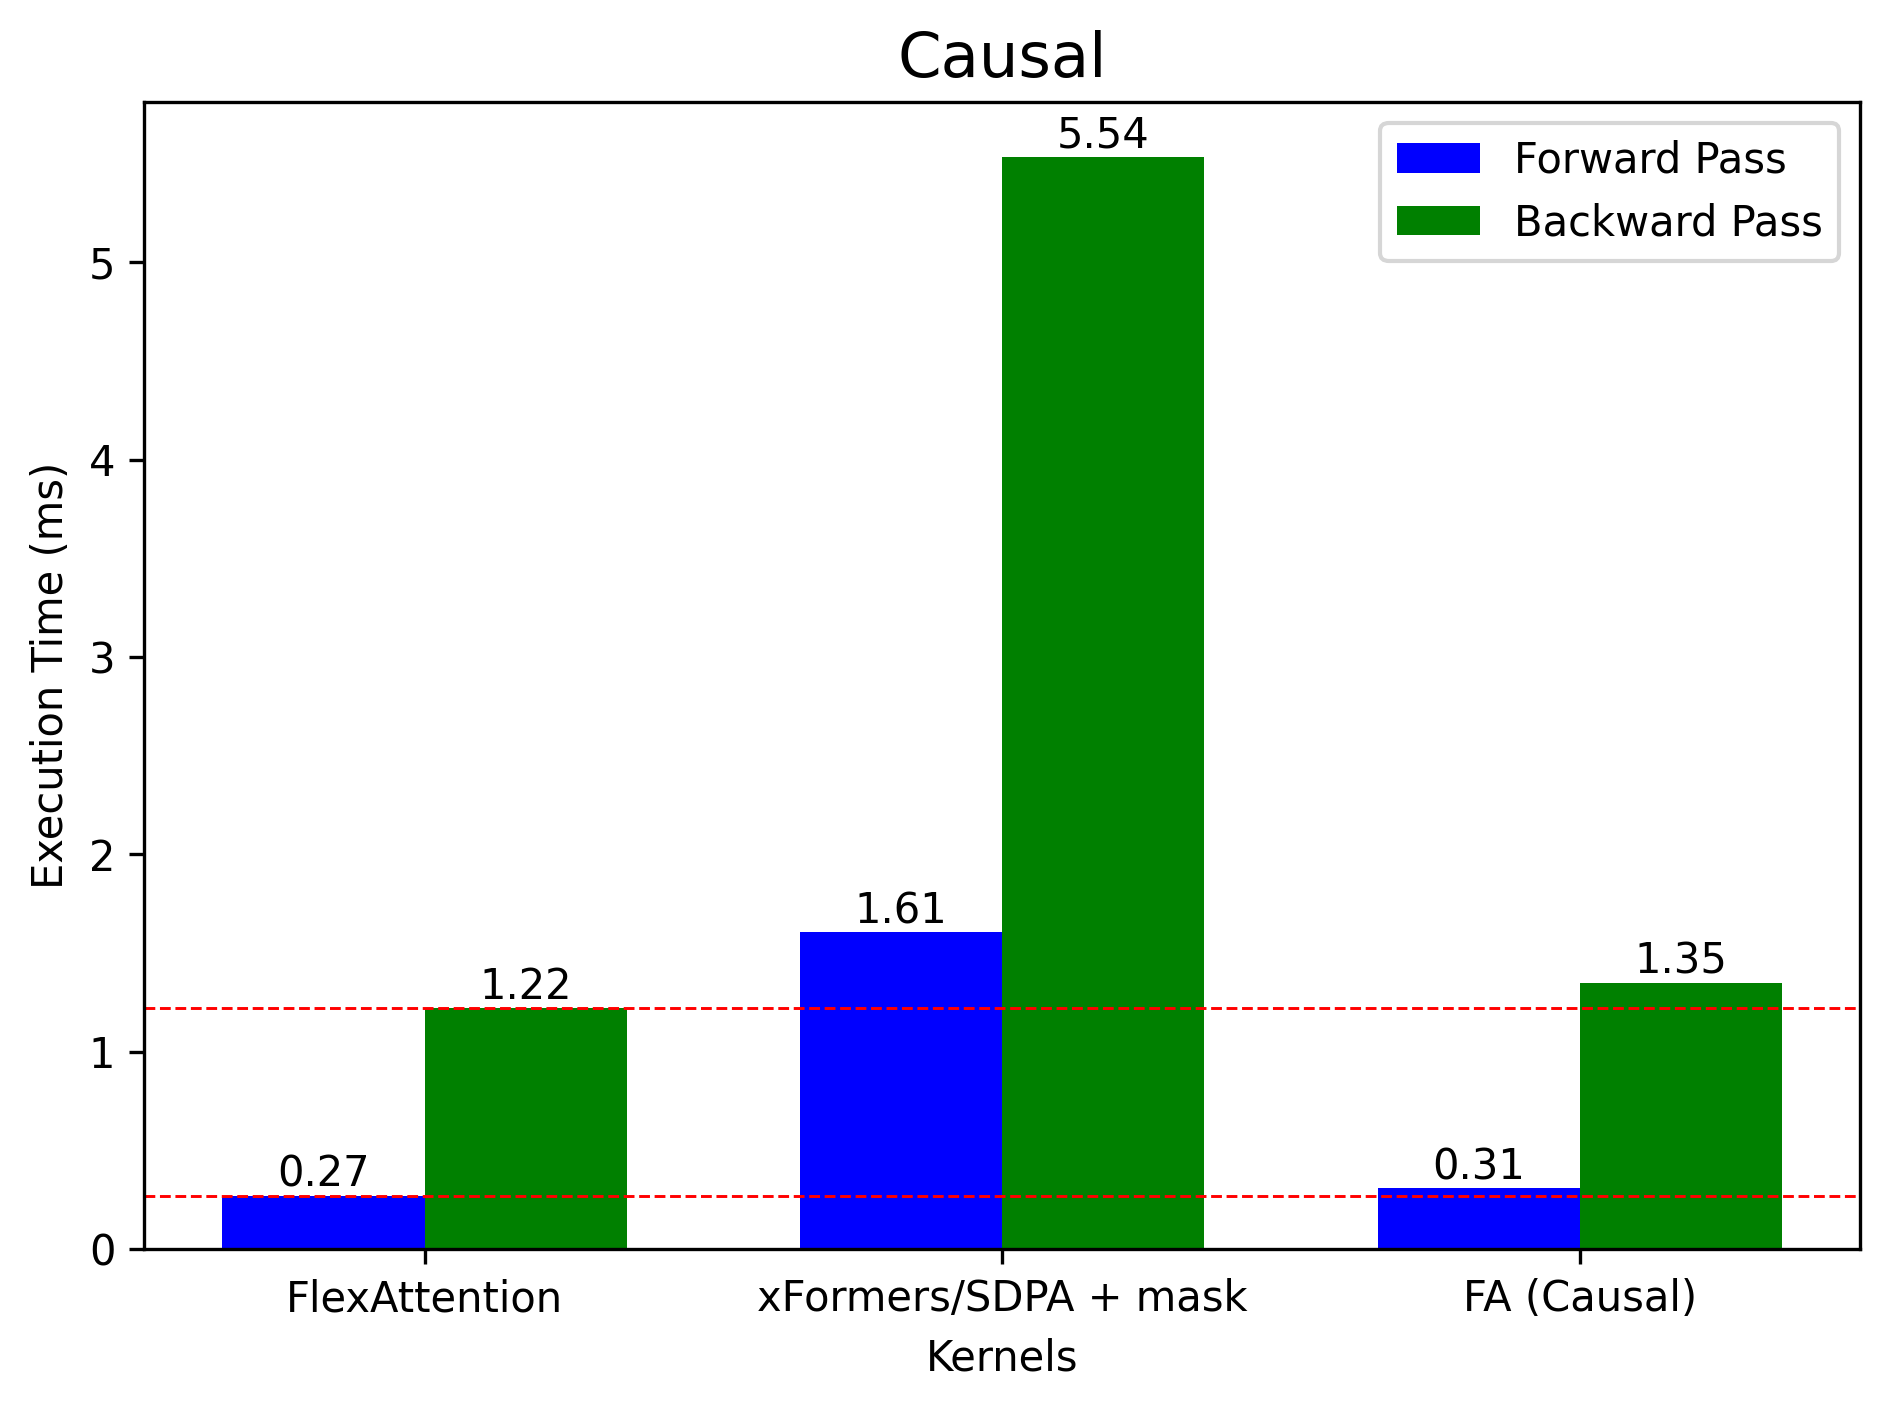
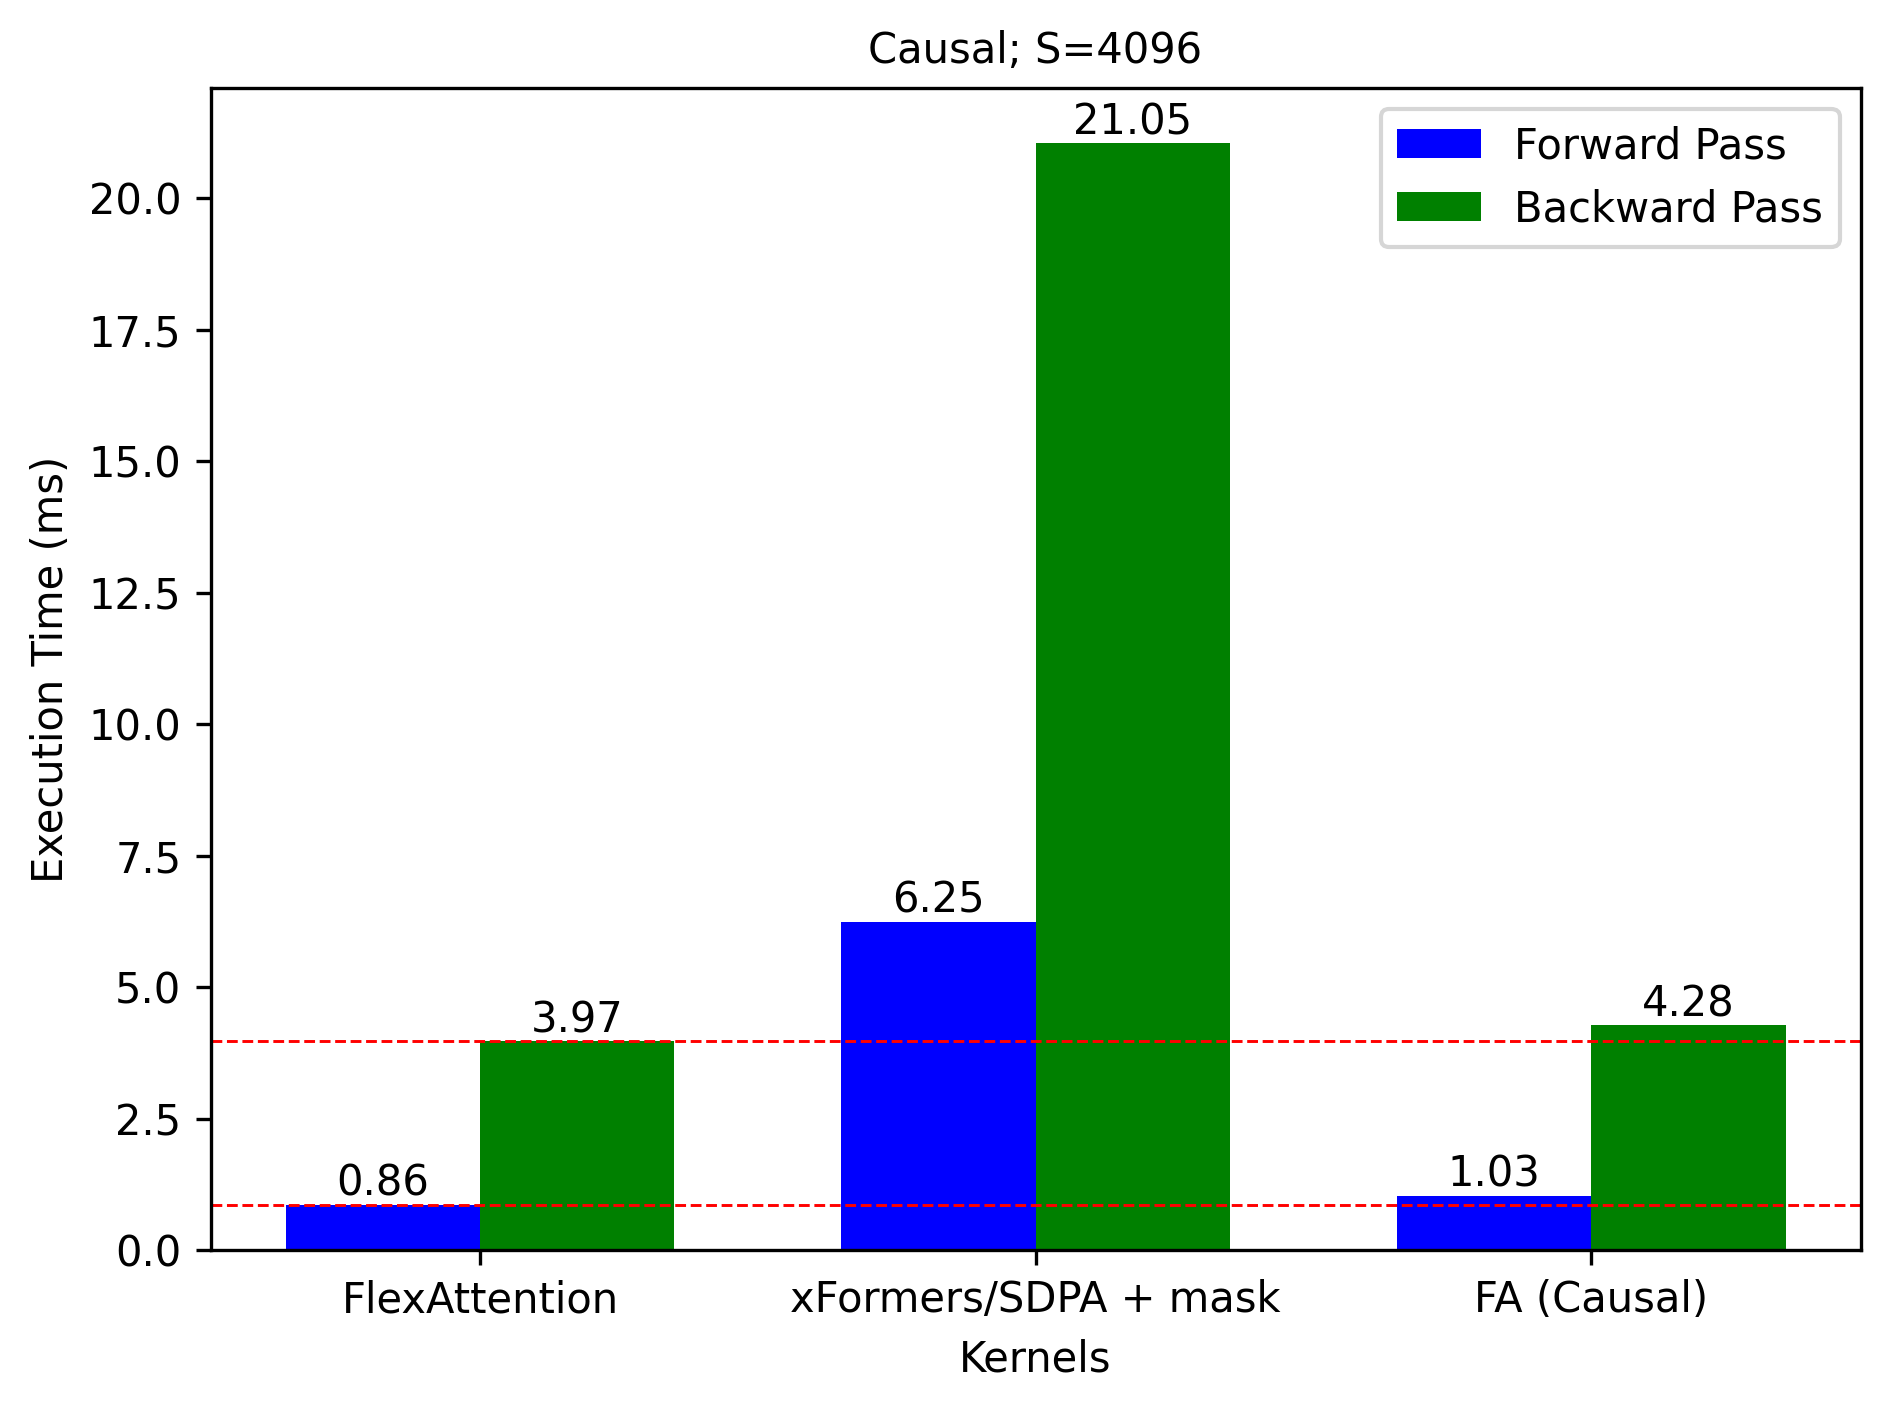
Update scripts to add sequence length to plot title

diff --git a/bidirectional_local_sliding_window_global_attn.py b/bidirectional_local_sliding_window_global_attn.py
@@ -8,16 +8,16 @@ from torch.nn.attention.flex_attention import flex_attention, create_block_mask,
 import matplotlib.pyplot as plt
 from functools import partial
 from pathlib import Path
-from utils import visualize_attention_scores, plot_bar_graph
+from utils import visualize_attention_scores, plot_timing_graph
 
 torch.set_default_device('cuda')
 
 B = 8
 H = 16
-S = 2048
+S = 4096
 D = 64
 SLIDING_WINDOW = 256
-TOK_IDXS_FOR_GLOBAL_ATTN = [0, 512, 1024]
+TOK_IDXS_FOR_GLOBAL_ATTN = [0, 512, 1024, 2048]
 BIDIRECTIONAL_COMP_IDXS = torch.ones(S, device='cuda') * -1000
 
 for idx in TOK_IDXS_FOR_GLOBAL_ATTN:
@@ -62,7 +62,14 @@ with sdpa_kernel(SDPBackend.FLASH_ATTENTION):
     print("FA (full) fwd:", fa_fwd_time)
     print("FA (full) bwd:", fa_bwd_time)
 
-# Plot
+# Plot timing
+name = "bidirectional_local_sliding_window_global_attention"
+plot_timing_graph([flex_attention_fwd_time, flex_attention_bwd_time, "FlexAttention"], 
+                [xformers_sdpa_with_mask_fwd_time, xformers_sdpa_with_mask_bwd_time, "xFormers/SDPA + mask"], 
+                [fa_fwd_time, fa_bwd_time, "FA (Full)"], seq_length=S,
+                name=name, path=Path(f"plots/{name}/timing.png"))
+
+# Plot mask
 B = 1
 H = 1
 S = 32
@@ -77,9 +84,4 @@ for idx in TOK_IDXS_FOR_GLOBAL_ATTN:
 q, k = [torch.randn(B, H, S, D, dtype=torch.float16) for _ in range(2)]
 mask_mod = or_masks(bidirectional_sliding_window, partial(global_attention_mask, bidirectional_comp_idxs=BIDIRECTIONAL_COMP_IDXS))
 
-name = "bidirectional_local_sliding_window_global_attention"
 visualize_attention_scores(q, k, mask_mod=mask_mod, name=name, path=Path(f"plots/{name}/mask.png"))
-plot_bar_graph([flex_attention_fwd_time, flex_attention_bwd_time, "FlexAttention"], 
-                [xformers_sdpa_with_mask_fwd_time, xformers_sdpa_with_mask_bwd_time, "xFormers/SDPA + mask"], 
-                [fa_fwd_time, fa_bwd_time, "FA (Full)"], 
-                name=name, path=Path(f"plots/{name}/timing.png"))

diff --git a/bidirectional_dilated_sliding_window.py b/bidirectional_dilated_sliding_window.py
@@ -8,13 +8,13 @@ from torch.nn.attention.flex_attention import flex_attention, create_block_mask,
 import matplotlib.pyplot as plt
 from functools import partial
 from pathlib import Path
-from utils import visualize_attention_scores, plot_bar_graph
+from utils import visualize_attention_scores, plot_timing_graph
 
 torch.set_default_device('cuda')
 
 B = 8
 H = 16
-S = 2048
+S = 4096
 D = 64
 SLIDING_WINDOW = 256
 DILATION_FACTOR = 2
@@ -58,7 +58,14 @@ with sdpa_kernel(SDPBackend.FLASH_ATTENTION):
     print("FA (full) fwd:", fa_fwd_time)
     print("FA (full) bwd:", fa_bwd_time)
 
-# Plot
+# Plot timing
+name = "bidirectional_dilated_sliding_window"
+plot_timing_graph([flex_attention_fwd_time, flex_attention_bwd_time, "FlexAttention"], 
+                [xformers_sdpa_with_mask_fwd_time, xformers_sdpa_with_mask_bwd_time, "xFormers/SDPA + mask"], 
+                [fa_fwd_time, fa_bwd_time, "FA (Full)"], seq_length=S,
+                name=name, path=Path(f"plots/{name}/timing.png"))
+
+# Plot mask
 B = 1
 H = 1
 S = 32
@@ -69,9 +76,4 @@ DILATION_FACTOR = 2
 q, k = [torch.randn(B, H, S, D, dtype=torch.float16) for _ in range(2)]
 mask_mod = and_masks(partial(bidirectional_sliding_window, dilation_factor=DILATION_FACTOR, sliding_window=SLIDING_WINDOW), partial(dilated_mask, dilation_factor=DILATION_FACTOR))
 
-name = "bidirectional_dilated_sliding_window"
 visualize_attention_scores(q, k, mask_mod=mask_mod, name=name, path=Path(f"plots/{name}/mask.png"))
-plot_bar_graph([flex_attention_fwd_time, flex_attention_bwd_time, "FlexAttention"], 
-                [xformers_sdpa_with_mask_fwd_time, xformers_sdpa_with_mask_bwd_time, "xFormers/SDPA + mask"], 
-                [fa_fwd_time, fa_bwd_time, "FA (Full)"], 
-                name=name, path=Path(f"plots/{name}/timing.png"))

diff --git a/bidirectional_sliding_window.py b/bidirectional_sliding_window.py
@@ -8,13 +8,13 @@ from torch.nn.attention.flex_attention import flex_attention, create_block_mask,
 import matplotlib.pyplot as plt
 from functools import partial
 from pathlib import Path
-from utils import visualize_attention_scores, plot_bar_graph
+from utils import visualize_attention_scores, plot_timing_graph
 
 torch.set_default_device('cuda')
 
 B = 8
 H = 16
-S = 2048
+S = 4096
 D = 64
 SLIDING_WINDOW = 256
 
@@ -53,7 +53,14 @@ with sdpa_kernel(SDPBackend.FLASH_ATTENTION):
     print("FA (full) fwd:", fa_fwd_time)
     print("FA (full) bwd:", fa_bwd_time)
 
-# Plot
+# Plot timing
+name = "bidirectional_sliding_window"
+plot_timing_graph([flex_attention_fwd_time, flex_attention_bwd_time, "FlexAttention"], 
+                [xformers_sdpa_with_mask_fwd_time, xformers_sdpa_with_mask_bwd_time, "xFormers/SDPA + mask"], 
+                [fa_fwd_time, fa_bwd_time, "FA (Full)"], seq_length=S,
+                name=name, path=Path(f"plots/{name}/timing.png"))
+
+# Plot mask
 B = 1
 H = 1
 S = 32
@@ -63,9 +70,4 @@ SLIDING_WINDOW = 4
 q, k = [torch.randn(B, H, S, D, dtype=torch.float16) for _ in range(2)]
 mask_mod = bidirectional_sliding_window
 
-name = "bidirectional_sliding_window"
 visualize_attention_scores(q, k, mask_mod=mask_mod, name=name, path=Path(f"plots/{name}/mask.png"))
-plot_bar_graph([flex_attention_fwd_time, flex_attention_bwd_time, "FlexAttention"], 
-                [xformers_sdpa_with_mask_fwd_time, xformers_sdpa_with_mask_bwd_time, "xFormers/SDPA + mask"], 
-                [fa_fwd_time, fa_bwd_time, "FA (Full)"], 
-                name=name, path=Path(f"plots/{name}/timing.png"))

diff --git a/causal_sliding_window.py b/causal_sliding_window.py
@@ -8,13 +8,13 @@ from torch.nn.attention.flex_attention import flex_attention, create_block_mask,
 import matplotlib.pyplot as plt
 from functools import partial
 from pathlib import Path
-from utils import visualize_attention_scores, plot_bar_graph
+from utils import visualize_attention_scores, plot_timing_graph
 
 torch.set_default_device('cuda')
 
 B = 8
 H = 16
-S = 2048
+S = 4096
 D = 64
 SLIDING_WINDOW = 256
 
@@ -54,7 +54,14 @@ with sdpa_kernel(SDPBackend.FLASH_ATTENTION):
     print("FA (causal) fwd:", fa_fwd_time)
     print("FA (causal) bwd:", fa_bwd_time)
 
-# Plot
+# Plot timing
+name = "causal_sliding_window"
+plot_timing_graph([flex_attention_fwd_time, flex_attention_bwd_time, "FlexAttention"], 
+                [xformers_sdpa_with_mask_fwd_time, xformers_sdpa_with_mask_bwd_time, "xFormers/SDPA + mask"], 
+                [fa_fwd_time, fa_bwd_time, "FA (Causal)"], seq_length=S,
+                name=name, path=Path(f"plots/{name}/timing.png"))
+
+# Plot mask
 B = 1
 H = 1
 S = 32
@@ -64,9 +71,4 @@ SLIDING_WINDOW = 4
 q, k = [torch.randn(B, H, S, D, dtype=torch.float16) for _ in range(2)]
 mask_mod = causal_sliding_window
 
-name = "causal_sliding_window"
 visualize_attention_scores(q, k, mask_mod=mask_mod, name=name, path=Path(f"plots/{name}/mask.png"))
-plot_bar_graph([flex_attention_fwd_time, flex_attention_bwd_time, "FlexAttention"], 
-                [xformers_sdpa_with_mask_fwd_time, xformers_sdpa_with_mask_bwd_time, "xFormers/SDPA + mask"], 
-                [fa_fwd_time, fa_bwd_time, "FA (Causal)"], 
-                name=name, path=Path(f"plots/{name}/timing.png"))

diff --git a/causal.py b/causal.py
@@ -8,13 +8,13 @@ from torch.nn.attention.flex_attention import flex_attention, create_block_mask,
 import matplotlib.pyplot as plt
 from functools import partial
 from pathlib import Path
-from utils import visualize_attention_scores, plot_bar_graph
+from utils import visualize_attention_scores, plot_timing_graph
 
 torch.set_default_device('cuda')
 
 B = 8
 H = 16
-S = 2048
+S = 4096
 D = 64
 
 def causal(b, h, q_idx, kv_idx):
@@ -51,8 +51,14 @@ with sdpa_kernel(SDPBackend.FLASH_ATTENTION):
     print("FA (causal) fwd:", fa_fwd_time)
     print("FA (causal) bwd:", fa_bwd_time)
 
+# Plot timing
+name = "causal"
+plot_timing_graph([flex_attention_fwd_time, flex_attention_bwd_time, "FlexAttention"], 
+                [xformers_sdpa_with_mask_fwd_time, xformers_sdpa_with_mask_bwd_time, "xFormers/SDPA + mask"], 
+                [fa_fwd_time, fa_bwd_time, "FA (Causal)"], seq_length=S,
+                name=name, path=Path(f"plots/{name}/timing.png"))
 
-# Plot
+# Plot mask
 B = 1
 H = 1
 S = 32
@@ -61,9 +67,4 @@ D = 8
 q, k = [torch.randn(B, H, S, D, dtype=torch.float16) for _ in range(2)]
 mask_mod = causal
 
-name = "causal"
 visualize_attention_scores(q, k, mask_mod=mask_mod, name=name, path=Path(f"plots/{name}/mask.png"))
-plot_bar_graph([flex_attention_fwd_time, flex_attention_bwd_time, "FlexAttention"], 
-                [xformers_sdpa_with_mask_fwd_time, xformers_sdpa_with_mask_bwd_time, "xFormers/SDPA + mask"], 
-                [fa_fwd_time, fa_bwd_time, "FA (Causal)"], 
-                name=name, path=Path(f"plots/{name}/timing.png"))

diff --git a/utils.py b/utils.py
@@ -156,10 +156,11 @@ def visualize_attention_scores(
 
     print(f"Mask visualization saved as {file_path}")
 
-def plot_bar_graph(
+def plot_timing_graph(
     flex_attention_timings: list,
     xformers_sdpa_with_mask_timings: list,
     fa_timings: list,
+    seq_length: int,
     name: str = "attention_timings",
     path: Optional[Path] = None,
 ):
@@ -187,7 +188,7 @@ def plot_bar_graph(
     # Adding labels and title
     ax.set_xlabel('Kernels')
     ax.set_ylabel('Execution Time (ms)')
-    ax.set_title(f"{title}", fontsize=15)
+    ax.set_title(f"{title}; S={seq_length}", fontsize=10)
     ax.set_xticks(x)
     ax.set_xticklabels(labels)
     ax.legend()
